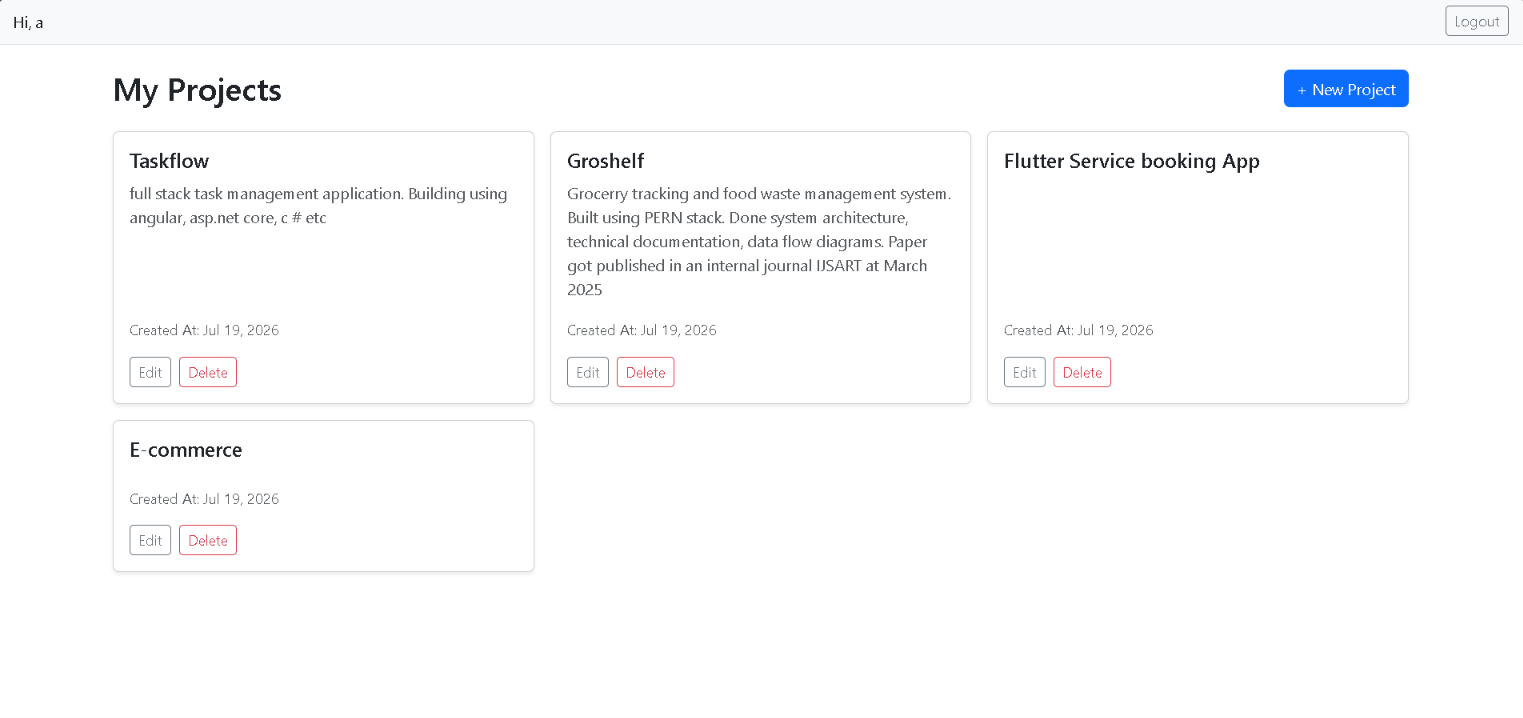
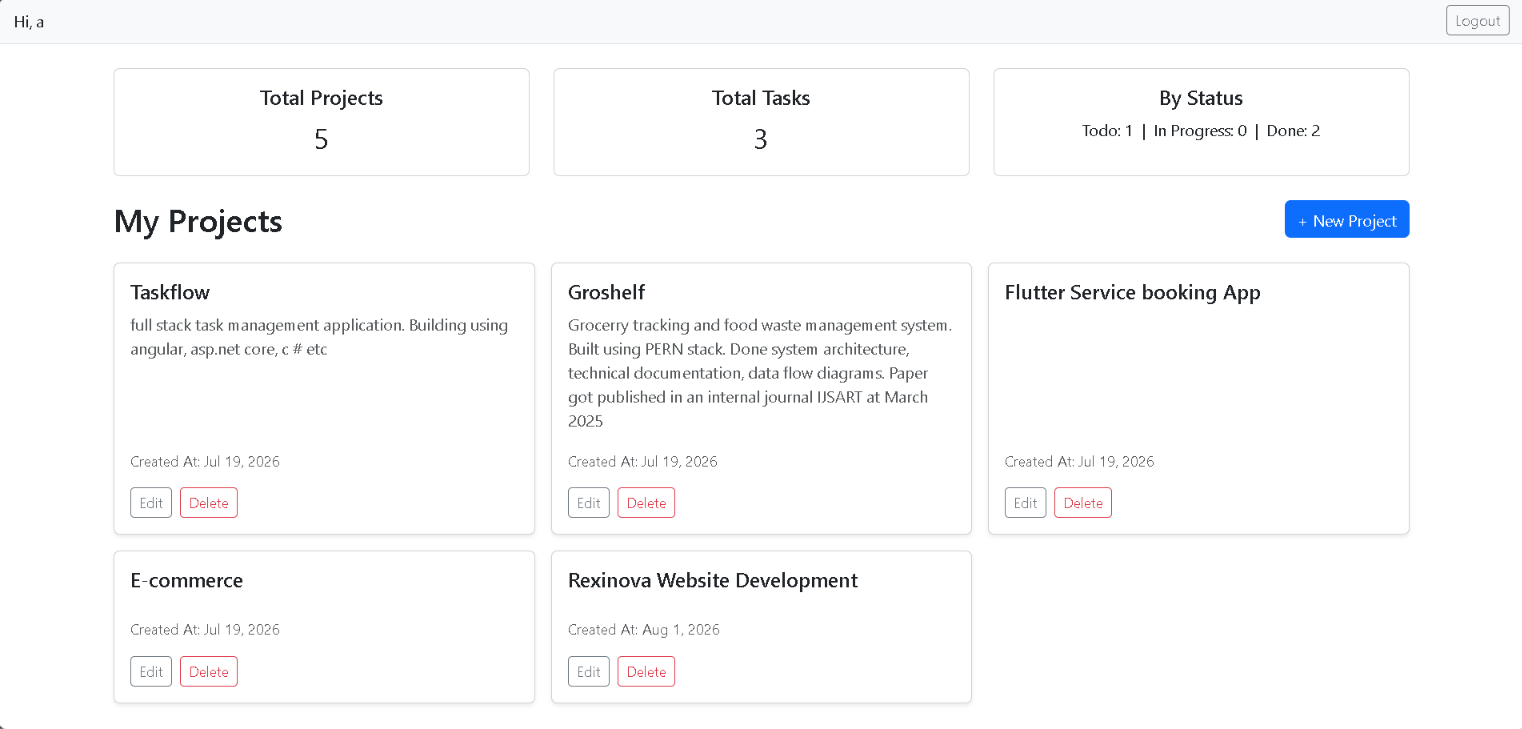
Added Screenshots to README

diff --git a/README.md b/README.md
@@ -34,9 +34,15 @@ built with Angular, ASP.NET Core Web API, and SQL Server.
 ### Dashboard
 <img src="taskflow-client/screenshots/dashboard.png" width="700" />
 
+### Task List
+<img src="taskflow-client/screenshots/task list.png" width="700" />
+
 ### Project Board
 <img src="taskflow-client/screenshots/project-board.png" width="700" />
 <img src="taskflow-client/screenshots/project-edit.png" width="700" />
+
+### Task Board
+<img src="taskflow-client/screenshots/task-board.png" width="700" />
 
 ---
 
